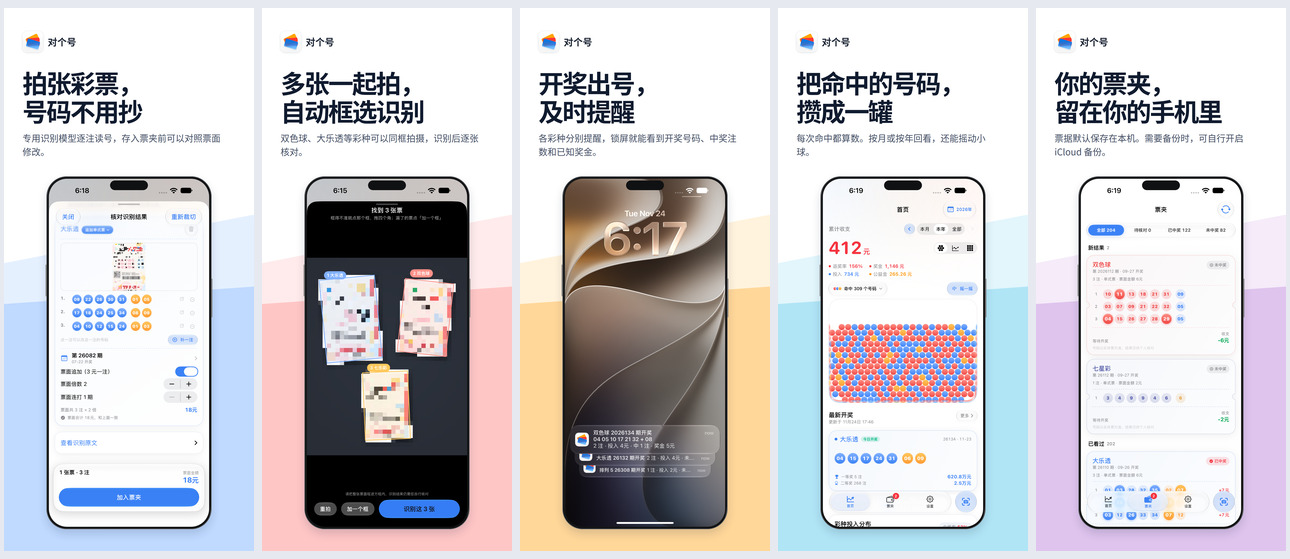
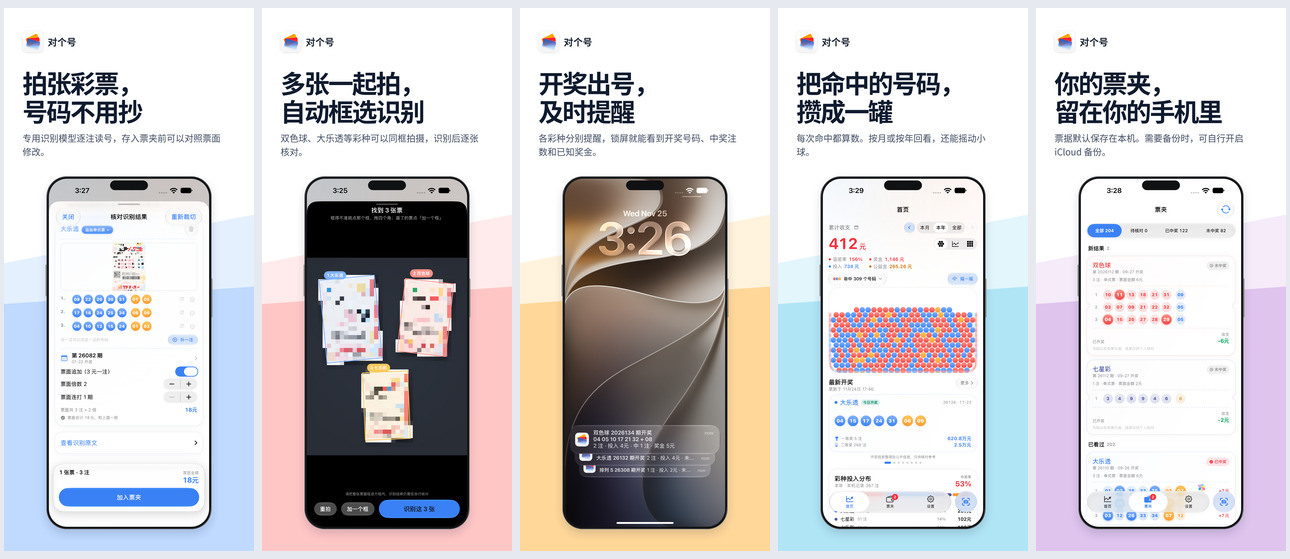
更新 5 张 App Store 宣传图与拼图，并修正首页免责提示测试字序
- AppStore/Screenshots/01-recognition.png..05-wallet.png 与 preview.jpg：使用最新清透相册风玻璃图标及本轮全部 17 张最新模拟器快照重新渲染
- Tests/LotteryWalletUITests/KeyFlowTests.swift：修正 testHomeShowsDemoTotals 中 Disclaimer.draw 断言字序（「仅供核对参考」）

diff --git a/Tests/LotteryWalletUITests/KeyFlowTests.swift b/Tests/LotteryWalletUITests/KeyFlowTests.swift
@@ -75,7 +75,7 @@ final class KeyFlowTests: XCTestCase {
             XCTAssertTrue(element.waitForExistence(timeout: 10), "首页没有显示 \(text)")
         }
         // 默认一屏内「最新开奖」卡片及其下方免责提示与轮播状态圆点均应完整露在底部悬浮栏之上。
-        let disclaimer = app.staticTexts["开奖信息整理自公开信息，仅供参考核对"].firstMatch
+        let disclaimer = app.staticTexts["开奖信息整理自公开信息，仅供核对参考"].firstMatch
         let dockTabs = app.segmentedControls["dock.tabs"].firstMatch
         XCTAssertTrue(disclaimer.waitForExistence(timeout: 10), "首页缺少最新开奖免责提示")
         XCTAssertTrue(dockTabs.waitForExistence(timeout: 5), "首页缺少底栏导航胶囊")
